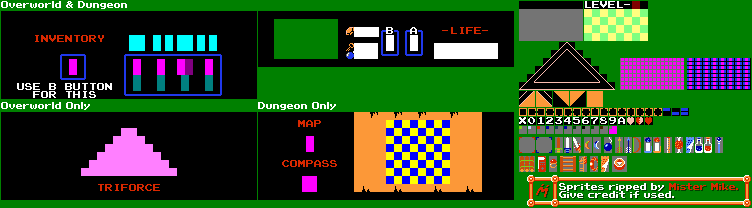
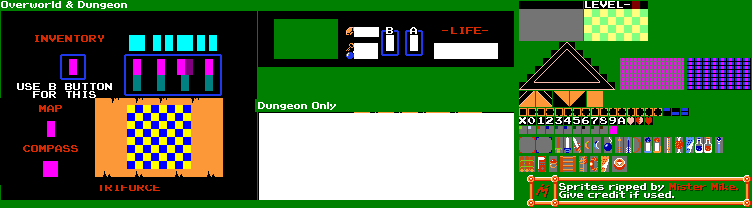
inventory slide down is working, need to add inventory items to the inventory page

Changed region(s): [[0.0, 0.4615, 0.7035, 0.9808], [0.0612, 0.5769, 0.0918, 0.6635]]

diff --git a/cse3902/PlayerClasses/PlayerInventory.cs b/cse3902/PlayerClasses/PlayerInventory.cs
@@ -8,12 +8,14 @@ using System.Text;
 using System.Threading.Tasks;
 using cse3902;
 using System;
+using System.Reflection.Emit;
 
 
 namespace cse3902.PlayerClasses
 {
     public class PlayerInventory
     {
+      
         public bool hasMap;
         public bool BowUnlocked;
         public bool hasCompass;
@@ -23,9 +25,15 @@ namespace cse3902.PlayerClasses
         public int Bombs;
         public int Triforce;
         public int lifeContainer = 3;
-        private Level level;
 
-        public PlayerInventory()
+        private Rectangle inventory = new Rectangle(1, 11, 250, 173);
+        private Rectangle blackbackground = new Rectangle(1, 11, 11, 11);
+        private float blackbackgroundScale = 10000000f;
+        private float inventoryScale = 3.5f;
+        private Vector2 inventoryPosition = new Vector2(0, -600);
+        private bool isDisplayed = true;
+      
+        public PlayerInventory(GameContent content)
         {
             health = 3;
             BowUnlocked = true;
@@ -36,22 +44,62 @@ namespace cse3902.PlayerClasses
             Bombs = 0;
             Triforce = 0;
             
+       
         }
 
+        public void Update(GameTime gameTime, List<IController> controllers) {
+
+            if (isDisplayed)
+            {
+                inventoryPosition = new Vector2(0, -600);
+            }
+            else
+            {
+
+                inventoryPosition = Vector2.Zero;
+            }
+
+            //update the vector position of invenroy to be postive when key B is pressed
+            if (controllers.Any(c => c.isInventoryDisplayedPressed()))
+            {
+                isDisplayed = !isDisplayed;
+
+            }  
+        }
+        
 
         // Method to prepare the text to be drawn (won't actually draw anything)
         public void Draw(GameContent gameContent, SpriteBatch spriteBatch)
         {
-            // Draw the quantity of items
-            spriteBatch.DrawString(gameContent.font, "Keys: " + this.Keys, new Vector2(280, 70), Color.White);
-            spriteBatch.DrawString(gameContent.font, "Bombs: " + this.Bombs, new Vector2(280, 100), Color.White);
-            spriteBatch.DrawString(gameContent.font, "Rubies: " + this.Rubies, new Vector2(280, 30), Color.White);
+            // Draw the textsprite of items
+            drawText(gameContent, spriteBatch);
+           
+            //this is for drawing the hud
+            //draw hearts in life:
+            drawHeart(gameContent, spriteBatch);
+
+            //this is to fill slot B
+            drawSlotB(gameContent, spriteBatch);
+            //fill slot A:
+            drawSlotA(gameContent, spriteBatch);
+
+            // Draw blackout effect if inventory is displayed
+            if (!isDisplayed)
+            {
+                spriteBatch.Draw(gameContent.hud, Vector2.Zero, blackbackground, Color.Black, 0f, Vector2.Zero, blackbackgroundScale, SpriteEffects.None, 0f);
+            }
+            //this is for drawing the inventory
+            spriteBatch.Draw(gameContent.hud, inventoryPosition, inventory, Color.White, 0f, Vector2.Zero, inventoryScale, SpriteEffects.None, 0f);
 
 
 
+           
+        }
+
+        public void drawHeart(GameContent gameContent, SpriteBatch spriteBatch) {
             //draw the heart for the health, initial there are 3 hearts:
             // Draw heart items based on player's health
-            Vector2 heartPosition = new Vector2(100, 100);
+
             Sprite heart = new Sprite(gameContent.hud, new List<Rectangle>() {
                         new Rectangle(645, 117, 8, 8) }
                         , new Vector2(3.5f, 3.5f));
@@ -60,28 +108,38 @@ namespace cse3902.PlayerClasses
             heart.Y = 85;
 
             //should draw all life container first
-          
-                Sprite fadedHeart = new Sprite(gameContent.hud, new List<Rectangle>() {
-                        new Rectangle(627, 117, 8, 8) }
-                       , new Vector2(3.5f, 3.5f));
-                fadedHeart.X = heart.X;
-                fadedHeart.Y = heart.Y;
 
-                for (int i = 0; i < lifeContainer; i++)
-                {
-                    fadedHeart.X += 16;
-                    fadedHeart.Draw(spriteBatch);
-                }
-            
+            Sprite fadedHeart = new Sprite(gameContent.hud, new List<Rectangle>() {
+                        new Rectangle(627, 117, 8, 8) }
+                   , new Vector2(3.5f, 3.5f));
+            fadedHeart.X = heart.X;
+            fadedHeart.Y = heart.Y;
+
+            for (int i = 0; i < lifeContainer; i++)
+            {
+                fadedHeart.X += 16;
+                fadedHeart.Draw(spriteBatch);
+            }
+
 
             //cover the life container with current health
-            for (int i = 0; i < health; i++) {
+            for (int i = 0; i < health; i++)
+            {
 
                 heart.X += 16;
                 heart.Draw(spriteBatch);
             }
+        }
 
-            //this is to fill slot B
+        public void drawText(GameContent gameContent, SpriteBatch spriteBatch)
+        {
+            spriteBatch.DrawString(gameContent.font, "Keys: " + this.Keys, new Vector2(280, 70), Color.White);
+            spriteBatch.DrawString(gameContent.font, "Bombs: " + this.Bombs, new Vector2(280, 100), Color.White);
+            spriteBatch.DrawString(gameContent.font, "Rubies: " + this.Rubies, new Vector2(280, 30), Color.White);
+
+
+        }
+        public void drawSlotB(GameContent gameContent, SpriteBatch spriteBatch) {
             if (SwordItemPickup.swordIsPicked == true)
             {
 
@@ -91,26 +149,29 @@ namespace cse3902.PlayerClasses
                 sword.X = 375;
                 sword.Y = 60;
                 sword.Draw(spriteBatch);
-            }else if (MagicalSwordItemPickup.isMagicalSwordPicked == true)
+            }
+            else if (MagicalSwordItemPickup.isMagicalSwordPicked == true)
             {
 
 
-               Sprite sword = new Sprite(gameContent.ItemSheet, new List<Rectangle>() {
+                Sprite sword = new Sprite(gameContent.ItemSheet, new List<Rectangle>() {
                         new Rectangle(112, 0, 8, 16) });
                 sword.X = 375;
                 sword.Y = 60;
                 sword.Draw(spriteBatch);
             }
-            else if (WhiteSwordItemPickup.isWhiteSwordPicked) {
+            else if (WhiteSwordItemPickup.isWhiteSwordPicked)
+            {
                 Sprite sword = new Sprite(gameContent.ItemSheet, new List<Rectangle>() {
                         new Rectangle(104, 16, 8, 16) });
                 sword.X = 375;
                 sword.Y = 60;
                 sword.Draw(spriteBatch);
             }
-
-            //fill slot A:
-            if (YellowBoomerangItemPickup.isYellowBoomerangPicked) {
+        }
+        public void drawSlotA(GameContent gameContent, SpriteBatch spriteBatch) {
+            if (YellowBoomerangItemPickup.isYellowBoomerangPicked)
+            {
                 Sprite sprite = new Sprite(gameContent.ItemSheet, new List<Rectangle>() {
                         new Rectangle(128, 2, 5, 9) });
                 sprite.X = 400;

diff --git a/cse3902/HudClasses/Hud.cs b/cse3902/HudClasses/Hud.cs
@@ -26,8 +26,7 @@ namespace cse3902
         // Update method for the HUD
         public void Update(GameTime gameTime, List<IController> controllers)
         {
-            // You may add update logic here if needed, 
-            // such as updating HUD elements based on player state or game events
+            Inventory.Update(gameTime, controllers);
         }
 
         // Draw method for the HUD

diff --git a/cse3902/PlayerClasses/Player.cs b/cse3902/PlayerClasses/Player.cs
@@ -46,7 +46,7 @@ namespace cse3902.PlayerClasses
             
             Pushbox = new BoxCollider(Position,Size*3, Origin*3, ColliderType.PLAYER);
 
-            Inventory = new PlayerInventory();
+            Inventory = new PlayerInventory(content);
         }
 
         public void Update(GameTime gameTime, List<IController> controllers)

diff --git a/cse3902/KeyboardController.cs b/cse3902/KeyboardController.cs
@@ -81,4 +81,7 @@ public class KeyboardController : IController
     /* room controls */
     public bool isLeftClick() { return false; }
     public bool isRightClick() { return false; }
+
+    /* display the inventory */
+    public bool isInventoryDisplayedPressed() { return isKeyJustPressed(Keys.B); }
 }

diff --git a/cse3902/MouseController.cs b/cse3902/MouseController.cs
@@ -62,5 +62,6 @@ namespace cse3902
         public bool isExitPressed() { return false; }
 
         public bool isPausePressed() {return false;}
+        public bool isInventoryDisplayedPressed() { return false; }
     }
 }

diff --git a/cse3902/Interfaces/IController.cs b/cse3902/Interfaces/IController.cs
@@ -49,4 +49,7 @@ public interface IController
     public bool isLeftClick();
     public bool isRightClick();
 
+    /* display the inventory */
+    public bool isInventoryDisplayedPressed();
+
 }
